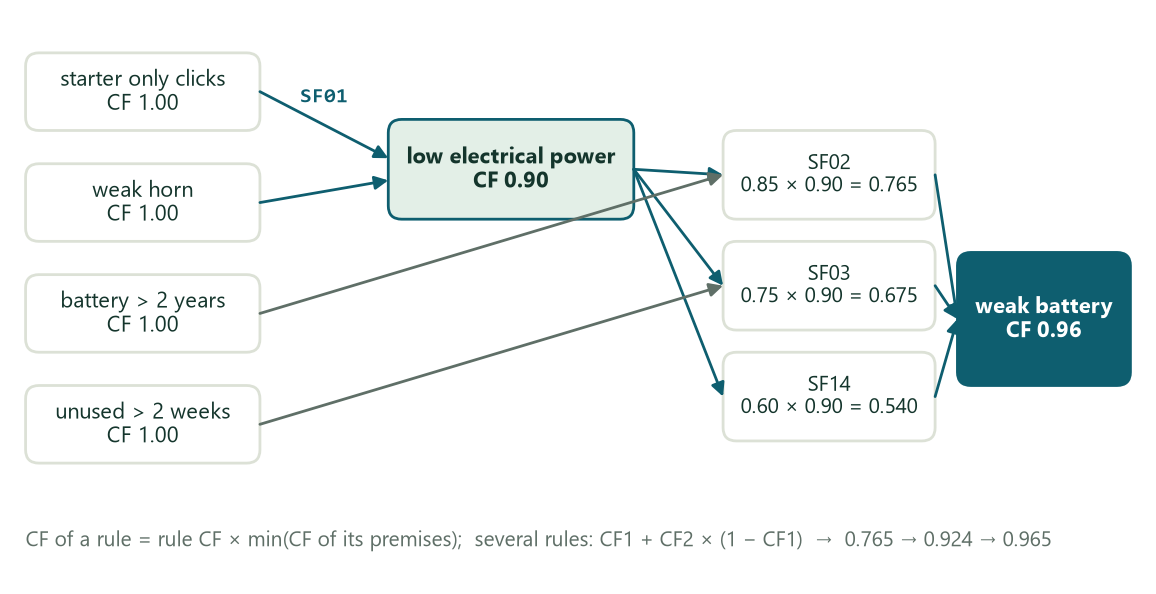
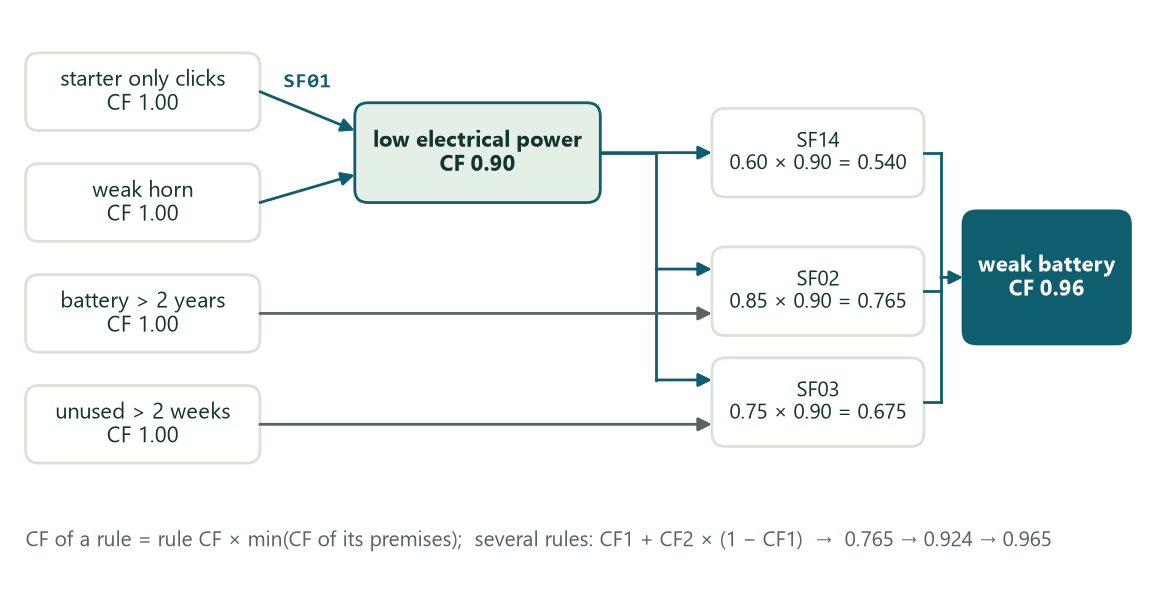
Report: keep Giang's CF figure (placeholder 3.y clashed with Khoa's), redraw the CF figure without crossing lines, update the figure table

diff --git a/src/report_figures.py b/src/report_figures.py
@@ -73,35 +73,43 @@ def figure_cf_example(kb: KnowledgeBase, path: Path) -> Path:
     mid = result.wm.get("low_electrical_power")
     top = next(d for d in result.diagnoses if d.fault == "weak_battery")
     fig, ax = _canvas(plt, 7.2, 3.6, 100, 50)
-    ys = [40, 30, 20, 10]
-    for y, s in zip(ys, SE01):
-        _box(ax, c, 0.5, y, 21, 7, f"{SHORT[s]}\nCF 1.00")
-    _box(ax, c, 33, 32, 22, 9, f"{SHORT['low_electrical_power']}\nCF {mid.cf:.2f}", fill=theme.LIGHT["accent_soft"],
+    line = dict(color=fw, linewidth=1)
+    centre = {s: 43.5 - 10 * i for i, s in enumerate(SE01)}  # symptom rows, top to bottom
+    for s, y in centre.items():
+        _box(ax, c, 0.5, y - 3.5, 21, 7, f"{SHORT[s]}\nCF 1.00")
+    _box(ax, c, 30, 33.5, 22, 9, f"{SHORT['low_electrical_power']}\nCF {mid.cf:.2f}", fill=theme.LIGHT["accent_soft"],
          edge=fw, bold=True)
-    _arrow(ax, 21.5, 43.5, 33, 37.5, fw, mid.by, dx=0, dy=2.5)
-    _arrow(ax, 21.5, 33.5, 33, 35.5, fw)
-    contributions = []
-    y = 32
+    _arrow(ax, 21.5, 43.5, 30, 40, fw, mid.by, dx=0, dy=2.6)
+    _arrow(ax, 21.5, 33.5, 30, 36, fw)
+    # each rule sits on the row of its extra symptom (none: on the row of the intermediate fact), so no line crosses
+    contributions, rows = [], []
     for rid in top.rules:
         rule = kb.rule(rid)
         cf_in = min(result.wm.get(p).cf for p in rule.premises)
         contributions.append(rule.cf * cf_in)
-        _arrow(ax, 55, 36.5, 63, y - (len(contributions) - 1) * 10 + 4, fw)
-        _box(ax, c, 63, y - (len(contributions) - 1) * 10, 19, 8,
-             f"{rid}\n{rule.cf:.2f} × {cf_in:.2f} = {rule.cf * cf_in:.3f}", size=7.5)
-    for p in ("battery_older_than_2_years", "bike_unused_over_2_weeks"):
-        users = [i for i, rid in enumerate(top.rules) if p in kb.rule(rid).premises]
-        for i in users:
-            _arrow(ax, 21.5, ys[SE01.index(p)] + 3.5, 63, 32 - i * 10 + 4, c["muted"])
+        extra = [p for p in rule.premises if p in centre]
+        y = centre[extra[0]] + 2 if extra else 38  # box centre
+        rows.append(y)
+        _box(ax, c, 62, y - 4, 19, 8, f"{rid}\n{rule.cf:.2f} × {cf_in:.2f} = {rule.cf * cf_in:.3f}", size=7.5)
+        if extra:  # the symptom goes straight across into the lower half of the box
+            _arrow(ax, 21.5, centre[extra[0]], 62, centre[extra[0]], c["muted"])
+            _arrow(ax, 57, y + 2, 62, y + 2, fw)
+        else:
+            _arrow(ax, 52, 38, 62, 38, fw)
+    ax.plot([52, 57], [38, 38], **line)
+    ax.plot([57, 57], [min(rows) + 2, 38], **line)  # bus from the intermediate fact down to every rule
     combined = contributions[0]
     steps = [f"{combined:.3f}"]
     for cf in contributions[1:]:
         combined = combined + cf * (1 - combined)
         steps.append(f"{combined:.3f}")
-    _box(ax, c, 84, 17, 15.5, 12, f"{SHORT['weak_battery']}\nCF {top.cf:.2f}", fill=fw, edge=fw,
+    mid_y = (min(rows) + max(rows)) / 2
+    _box(ax, c, 84.5, mid_y - 6, 15, 12, f"{SHORT['weak_battery']}\nCF {top.cf:.2f}", fill=fw, edge=fw,
          color=theme.LIGHT["on_accent"], bold=True)
-    for i in range(len(contributions)):
-        _arrow(ax, 82, 32 - i * 10 + 4, 84, 23, fw)
+    for y in rows:
+        ax.plot([81, 82.5], [y, y], **line)
+    ax.plot([82.5, 82.5], [min(rows), max(rows)], **line)  # the rules are combined into one CF
+    _arrow(ax, 82.5, mid_y, 84.5, mid_y, fw)
     ax.text(0.5, 2.5, "CF of a rule = rule CF × min(CF of its premises);  several rules: CF1 + CF2 × (1 − CF1)  →  "
             + " → ".join(steps), fontsize=7.5, color=c["muted"])
     assert abs(combined - top.cf) < 1e-3, (combined, top.cf)

diff --git a/tests/test_build_report.py b/tests/test_build_report.py
@@ -1,4 +1,4 @@
-"""tools/build_report.py: the Word report is assembled from docs/report (owner: Lâm). Needs python-docx."""
+"""tools/build_report.py: the Word report is assembled from docs/report (owner: Lâm). Needs python-docx."""
 
 import re
 import sys
@@ -27,10 +27,14 @@ class BuildReportTest(unittest.TestCase):
         self.assertEqual(heads[heads.index("Chapter 4: Experiments and Results") - 1], "3.6 Chapter conclusion")
         self.assertFalse(re.search(r"\b\d\.[a-z]\b", text), "a placeholder such as 3.y was not renumbered")
         self.assertTrue(re.search(r"Figure 3\.\d\.1:", text))
+        # Giang and Khoa both write "3.y": each keeps its own figure and number
+        self.assertIn("Figure 3.2.1: Forward chaining on scenario SE01", text)
+        self.assertIn("Figure 3.4.1: Backward chaining loop", text)
+        self.assertNotIn("(Figure 3.4.1)", text.split("3.3 Verification")[0])
         self.assertIn("References", heads)
         self.assertIn("Wang, H. (1960)", text)
         self.assertIn("Motorbike Fault Diagnosis Expert System", text)  # cover title
-        self.assertGreaterEqual(len(doc.inline_shapes), 5)  # v4 cuts Ch3 to 3 figures (K1, G1)
+        self.assertGreaterEqual(len(doc.inline_shapes), 8)  # 1 + 1 + 3 (Ch3: G1, K1, Lâm) + 2 + 1
 
 
 if __name__ == "__main__":

diff --git a/tools/build_report.py b/tools/build_report.py
@@ -136,9 +136,14 @@ def parse(lines: list) -> tuple:
 def chapter(parts: list) -> tuple:
     """Sections of one chapter in order (conclusion last), the figures, the references and the renumbering map."""
     sections, figures, refs = [], {}, []
-    for part in parts:
+    for n, part in enumerate(parts):
         name, ch = (part, "") if isinstance(part, str) else part
-        s, f, r = parse(lines_of(name, ch))
+        lines = lines_of(name, ch)
+        # two writers may both use "3.y": make each part's placeholders unique before they are mapped
+        tokens = {m.group(1) for ln in lines if ln.startswith("## ") and (m := TOKEN.match(ln[3:].strip()))
+                  and not m.group(1).split(".")[1].isdigit()}
+        lines = [renumber(ln, {t: f"{t}_{n}" for t in tokens}) for ln in lines]
+        s, f, r = parse(lines)
         sections += [x for x in s if x["kind"] == "text"]
         figures.update(f)
         refs += r

diff --git a/docs/report/README.md b/docs/report/README.md
@@ -72,8 +72,8 @@ Lưu ảnh vào `figures/`, tên `fig_<nội_dung>.png`. Biểu đồ và sơ đ
 |---|---|---|---|
 | 1 | Figure 1.1.1: tổng quan hệ thống | Lâm | Có: `fig_system_overview.png` |
 | 2 | Figure 2.2.1: forward và backward trên luật SF01, SF02 | Lâm | Có: `fig_forward_backward.png` |
-| 3 | Cấu trúc luật và các lớp triệu chứng → trung gian → lỗi | Lâm | Chưa |
-| 3 | Màn Trợ lý chẩn đoán đang hỏi, có thanh khả năng | Lâm | Chưa |
+| 3 | Cấu trúc luật và các lớp triệu chứng → trung gian → lỗi | Lâm | Bỏ (v4: phần Lâm còn 1 hình) |
+| 3 | Màn chat theo luật, đang hỏi "tại sao" | Lâm | Có: `fig_motologic_chat.png` (`python tools/shots.py`) |
 | 3 | Ví dụ forward chaining tính CF | Giang | Có: `fig_cf_example.png` (`python src/report_figures.py`) |
 | 3 | Màn hình MotoLogic: kết quả SE01 có đồng hồ độ tin cậy (confidence gauge) và Wang | Giang | Có, chụp lại 13/11 (có chọn dòng xe): `fig_motologic_4_result.png` (thêm `fig_motologic_1_setup`, `_2_guided`, `_3_symptoms`); không tính vào 1 hình của phần Giang |
 | 3 | Ví dụ cây chứng minh Wang | Giang | Có nhưng bỏ khỏi Ch3 (phần Giang còn 1 hình); dùng cho slide: `fig_wang_proof.png` |
